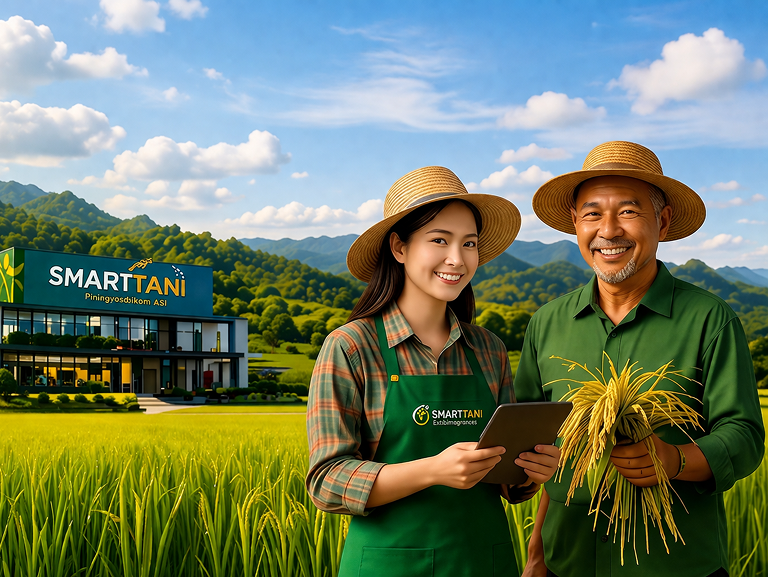
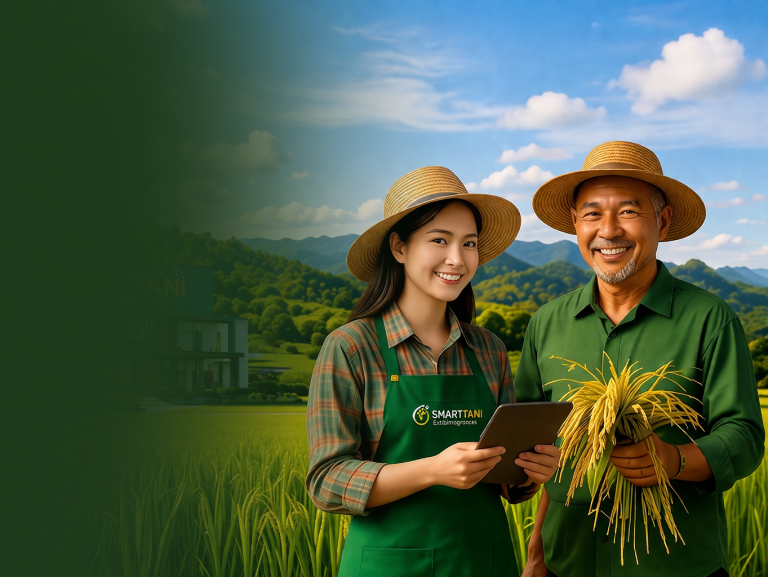
feat: implement responsive hero background and UI refinements for About page

diff --git a/components/sections/tentang/HeroTentangSection.tsx b/components/sections/tentang/HeroTentangSection.tsx
@@ -15,78 +15,65 @@ const HeroTentangSection = () => {
   };
 
   return (
-    <section className="relative min-h-[500px] lg:min-h-[650px] w-full overflow-hidden flex items-center">
+    <section className="relative flex items-center overflow-hidden min-h-[520px] md:min-h-[460px] lg:min-h-[420px]">
+      {/* Background Image */}
       <div className="absolute inset-0 z-0">
         <picture className="block w-full h-full">
-          {/* Desktop: ≥1024px */}
-          <source
-            media="(min-width: 1024px)"
-            srcSet={ABOUT_HERO.bgImageDesktop}
-          />
-          {/* Tablet: 768px – 1023px */}
-          <source
-            media="(min-width: 768px) and (max-width: 1023px)"
-            srcSet={ABOUT_HERO.bgImageTablet}
-          />
-          {/* Mobile: <768px */}
-          <source
-            media="(max-width: 767px)"
-            srcSet={ABOUT_HERO.bgImageMobile}
-          />
-          {/* Fallback */}
+          <source media="(min-width: 1024px)" srcSet={ABOUT_HERO.bgImageDesktop} />
+          <source media="(min-width: 768px) and (max-width: 1023px)" srcSet={ABOUT_HERO.bgImageTablet} />
+          <source media="(max-width: 767px)" srcSet={ABOUT_HERO.bgImageMobile} />
           <img
             src={ABOUT_HERO.bgImageDesktop}
-            alt="Hero Background"
+            alt="Tentang Smarttani"
             className="w-full h-full object-cover object-center"
           />
         </picture>
 
-        {/* Overlay: hanya tampil di tablet & mobile (tersembunyi di desktop) */}
-        <div className="absolute inset-0 bg-black/50 lg:hidden" />
+        {/* Overlay mobile */}
+        <div className="absolute inset-0 bg-black/55 md:hidden" />
       </div>
-      {/* Content */}
-      <div className="container-smarttani relative z-10 py-16 lg:py-24">
-        <div className="max-w-xl">
-          {/* Badge */}
-          <div className="inline-block rounded-lg bg-primary-medium/80 backdrop-blur-sm px-4 py-2 text-caption font-bold text-white md:text-body-sm">
-            {ABOUT_HERO.badge}
-          </div>
 
-          {/* Headings */}
-          <div className="mt-8 space-y-2">
-            <h1 className="text-display text-white">
+      {/* Content */}
+      <div className="container-smarttani relative z-10 py-10 lg:py-0">
+        <div className="grid grid-cols-1 gap-6 md:gap-8 lg:grid-cols-12 lg:items-center lg:gap-8">
+
+          {/* Left Column */}
+          <div className="lg:col-span-9">
+            {/* Badge */}
+            <div className="mb-3 inline-block rounded-lg bg-primary-medium/80 backdrop-blur-sm px-3 py-1.5 text-caption font-bold text-white">
+              {ABOUT_HERO.badge}
+            </div>
+
+            <h1 className="text-heading-1 md:text-display text-white mb-3 max-w-sm lg:max-w-lg">
               {ABOUT_HERO.heading}
             </h1>
+
+            <p className="text-body-sm mb-5 max-w-sm md:max-w-md text-white/85">
+              {ABOUT_HERO.subtext}
+            </p>
+
+            {/* CTA Buttons */}
+            <div className="flex flex-col gap-3 sm:flex-row sm:items-center">
+              <Button
+                onClick={scrollToDetail}
+                className="h-10 w-full rounded-md px-6 text-sm font-bold transition-colors sm:w-auto cursor-pointer bg-primary hover:bg-primary-dark !text-white shadow-lg shadow-primary/20"
+              >
+                {ABOUT_HERO.cta[0].label}
+                <ArrowRight className="ml-2 h-4 w-4" />
+              </Button>
+              <Button
+                variant="outline"
+                asChild
+                className="h-10 w-full rounded-md px-6 text-sm font-bold transition-colors sm:w-auto cursor-pointer border-none bg-white text-primary-dark hover:bg-white/90"
+              >
+                <Link href="/kontak">
+                  <Phone className="mr-2 h-4 w-4" />
+                  {ABOUT_HERO.cta[1].label}
+                </Link>
+              </Button>
+            </div>
           </div>
 
-          {/* Subtext */}
-          <p className="mt-8 max-w-2xl text-body-lg text-white/85">
-            {ABOUT_HERO.subtext}
-          </p>
-
-          {/* CTA Buttons */}
-          <div className="mt-10 flex flex-wrap gap-4">
-            <Button
-              size="lg"
-              variant="accent"
-              className="rounded-full px-8 h-12 md:h-14 text-base font-semibold transition-all cursor-pointer"
-              onClick={scrollToDetail}
-            >
-              {ABOUT_HERO.cta[0].label}
-              <ArrowRight className="ml-2 h-5 w-5" />
-            </Button>
-            <Button
-              size="lg"
-              variant="outline"
-              asChild
-              className="rounded-full px-8 h-12 md:h-14 text-base font-semibold border-2 border-white bg-transparent text-white hover:bg-white hover:text-primary transition-all cursor-pointer"
-            >
-              <Link href="/kontak">
-                <Phone className="mr-2 h-5 w-5" />
-                {ABOUT_HERO.cta[1].label}
-              </Link>
-            </Button>
-          </div>
         </div>
       </div>
     </section>

diff --git a/app/tentang/page.tsx b/app/tentang/page.tsx
@@ -17,7 +17,7 @@ export default function TentangPage() {
   return (
     <main>
       <HeroTentangSection />
-      <ProfilStatsSection />
+      {/* <ProfilStatsSection /> */}
       <VisiMisiNilaiSection />
       <TimelineSection />
       <LayananSection />
